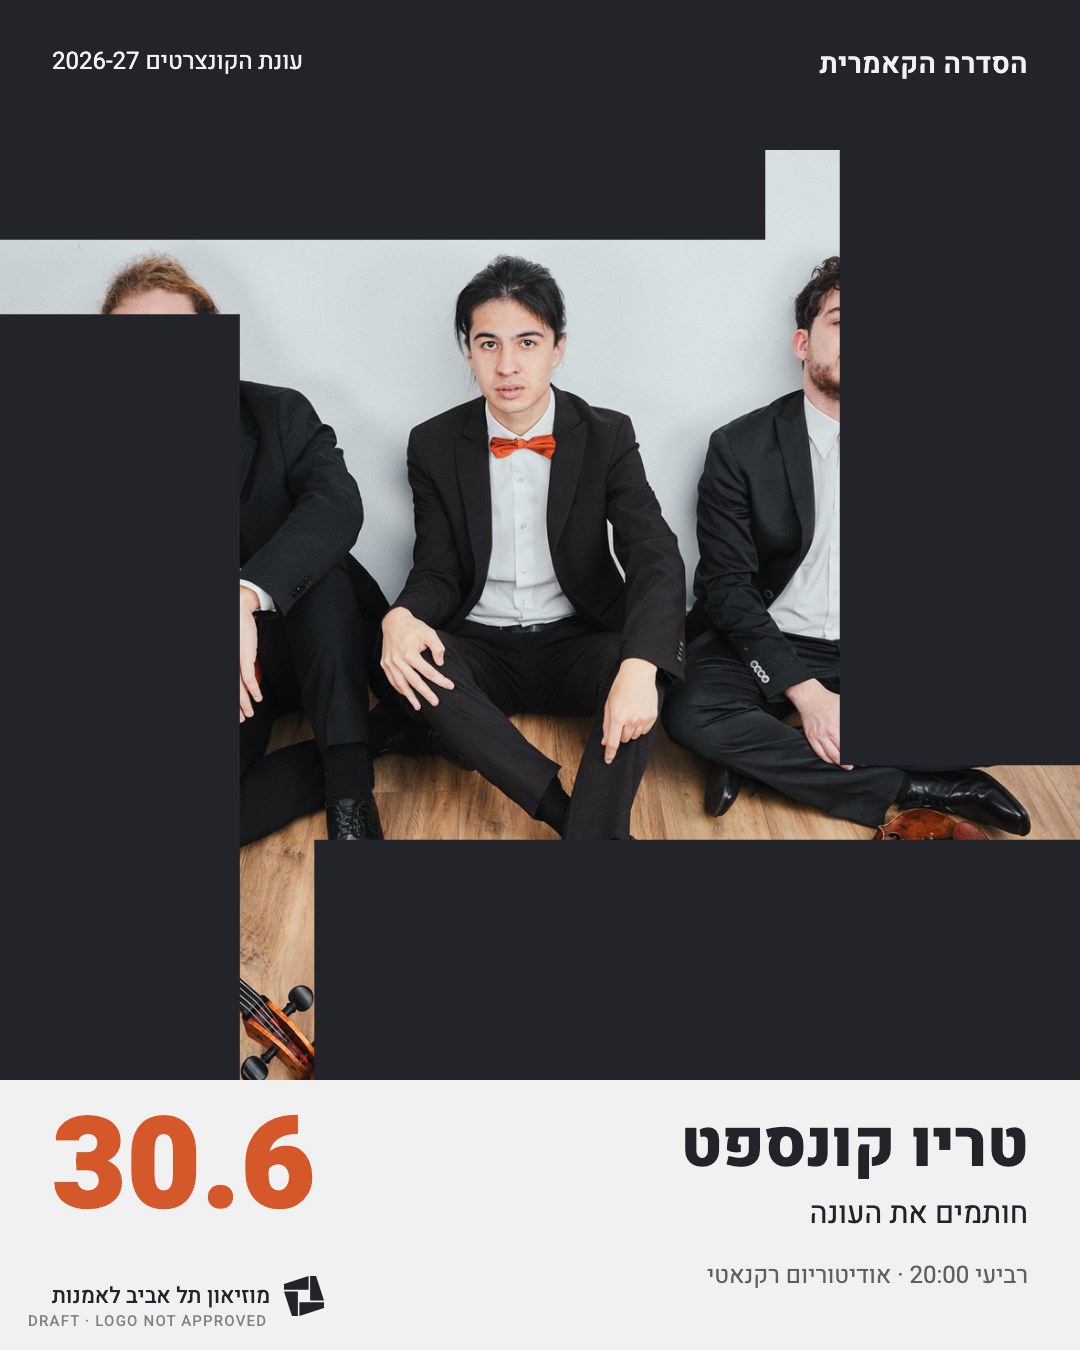
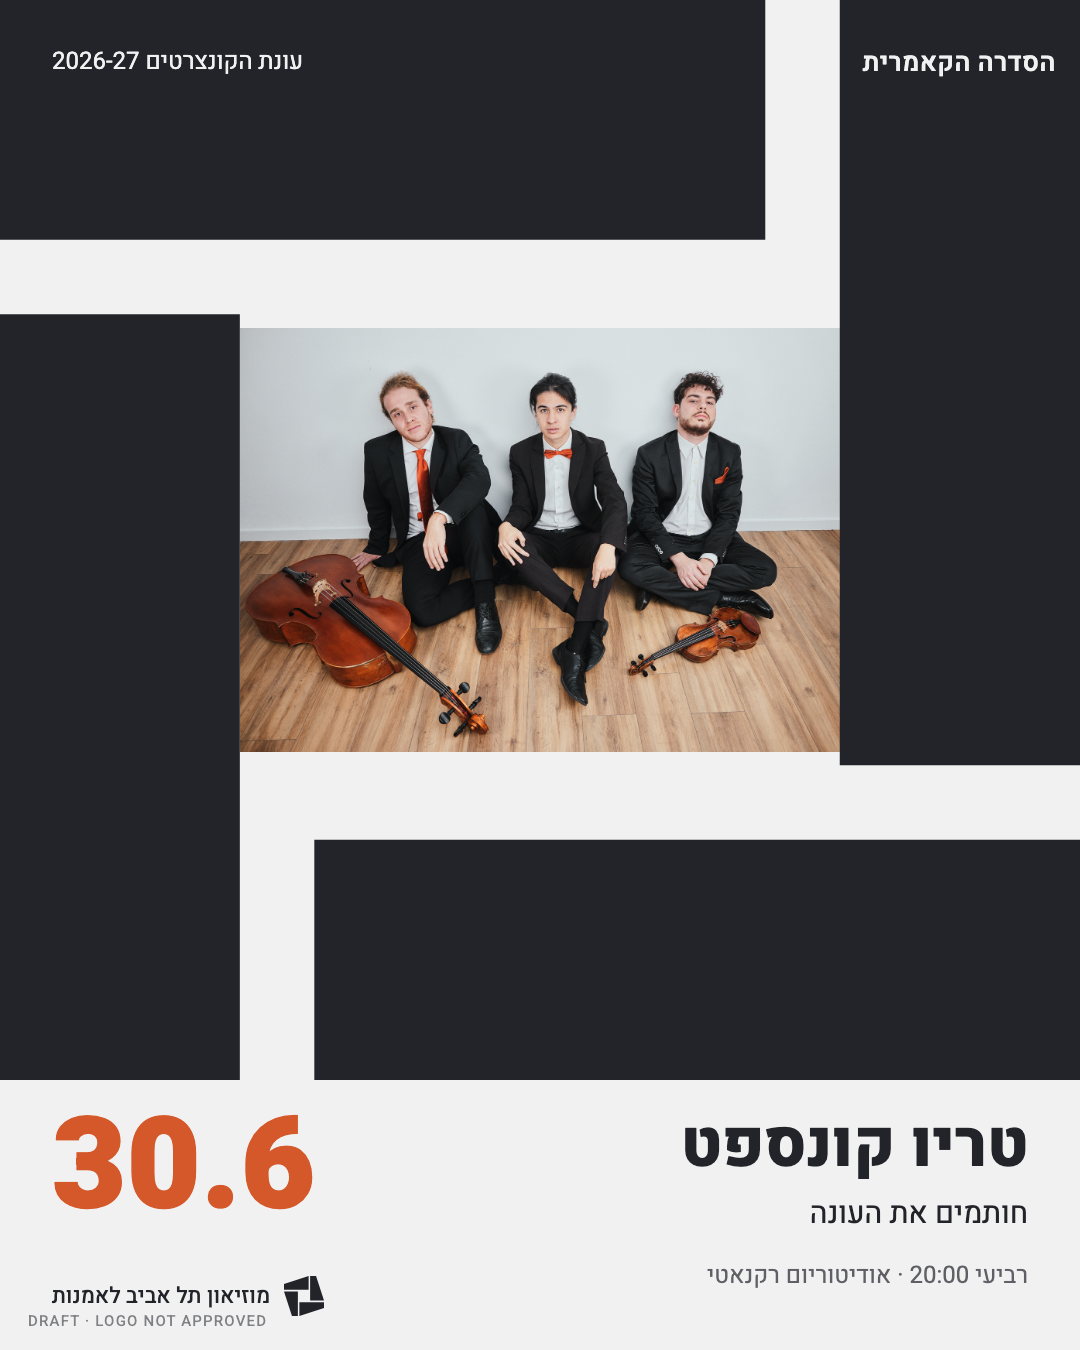
A trio: all three players visible, original photo comparison

Changed region(s): [[0.0, 0.0, 1.0, 0.8089]]

diff --git a/sources.html b/sources.html
@@ -10,7 +10,7 @@ h2{margin:0 0 8px;font-size:20px} img{max-width:100%;display:block;border-radius
 .sw{display:flex;gap:10px;flex-wrap:wrap} .sw div{width:120px;font-size:13px} .sw span{display:block;height:56px;border-radius:6px;border:1px solid #ccc}
 table{width:100%;border-collapse:collapse;font-size:14px;margin-top:10px} td,th{text-align:left;padding:6px;border-bottom:1px solid #ddd;vertical-align:top}
 tr.taken td:last-child{color:#1b7a3d;font-weight:600} tr.invented td:last-child{color:#a33;font-weight:600}
-.post{max-width:320px} .warn{background:#fff4e5;border-left:4px solid #d5582a;padding:10px 12px;border-radius:6px}
+.post{max-width:320px} .pair{display:flex;gap:12px;flex-wrap:wrap;align-items:flex-start} .orig{max-width:420px;flex:1 1 260px} .warn{background:#fff4e5;border-left:4px solid #d5582a;padding:10px 12px;border-radius:6px}
 </style></head><body>
 <header><h1>Where everything came from</h1><p>What was on the museum site on 1.10.2026, and for each post what was taken from it and what I made up. <a style="color:#fff" href="index.html">Back to the review page</a></p></header>
 <main>
@@ -31,5 +31,5 @@ tr.taken td:last-child{color:#1b7a3d;font-weight:600} tr.invented td:last-child{
 <p>Font: <b>Greta</b> (Typotheque, paid). I used free Heebo and Frank Ruhl Libre instead.</p></section>
 
 <section><h2>4. Each post: from the site, or mine</h2><p>Green = from the site. Red = my decision or my draft copy.</p></section>
-<section><img src="media/A-window-3006-trio-concept.png" class="post"><table><tr><th>Element</th><th>Source</th><th></th></tr><tr class="taken"><td>Photo</td><td>Season page hero image (Trio Concept)</td><td>from the site</td></tr><tr class="taken"><td>Four blades and the empty square</td><td>Museum mark SVG from the site CSS, scaled up</td><td>from the site</td></tr><tr class="taken"><td>Names, date, weekday, time, hall</td><td>Season page text</td><td>from the site</td></tr><tr class="invented"><td>Line "חותמים את העונה"</td><td>Mine: 30.6 is the last concert of the season</td><td>mine</td></tr><tr class="invented"><td>Orange date colour</td><td>Mine, sampled by eye from the bow ties</td><td>mine</td></tr><tr class="invented"><td>Fonts Heebo and Frank Ruhl Libre</td><td>Mine, free fonts; the museum uses Greta</td><td>mine</td></tr></table></section><section><img src="media/A-window-2502-puccini-vs-caspi.png" class="post"><table><tr><th>Element</th><th>Source</th><th></th></tr><tr class="taken"><td>Names and the word "מול"</td><td>Season page title "פוצ'יני מול מתי כספי"</td><td>from the site</td></tr><tr class="invented"><td>Blades turned 45 degrees</td><td>Mine: a rule for the Head to Head strand</td><td>mine</td></tr><tr class="invented"><td>Blue field</td><td>Mine</td><td>mine</td></tr><tr class="invented"><td>Line "אופרה איטלקית פוגשת את השיר הישראלי"</td><td>Mine, draft copy</td><td>mine</td></tr></table></section><section><img src="media/B-programme-2110-ben-haim-trio.png" class="post"><table><tr><th>Element</th><th>Source</th><th></th></tr><tr class="taken"><td>Six stripes</td><td>Six players listed on the season page</td><td>from the site</td></tr><tr class="taken"><td>Composers: Prokofiev, Khachaturian, Arensky, Bardanashvili</td><td>Season page programme</td><td>from the site</td></tr><tr class="invented"><td>Keys of the works (C minor, G minor, D minor)</td><td>Arensky D minor is on the page; Prokofiev and Khachaturian keys are from my general knowledge, not the page</td><td>mine</td></tr><tr class="invented"><td>Colour per key, width per birth year</td><td>Mine, the rule of direction B</td><td>mine</td></tr></table></section><section><img src="media/B-programme-2502-puccini-vs-caspi.png" class="post"><table><tr><th>Element</th><th>Source</th><th></th></tr><tr class="invented"><td>Every stripe</td><td>Illustrative only: the programme for 25.2 is not published, so the keys and player count are made up</td><td>mine</td></tr><tr class="taken"><td>Title, date, hall</td><td>Season page</td><td>from the site</td></tr></table></section><section><img src="media/C-seam-2110-ben-haim-trio.png" class="post"><table><tr><th>Element</th><th>Source</th><th></th></tr><tr class="taken"><td>"שלישיית בן-חיים" vs "שירלי בריל"</td><td>Season page title</td><td>from the site</td></tr><tr class="taken"><td>"פסנתר, כינור, צ'לו" and "קלרנית"</td><td>Season page player list</td><td>from the site</td></tr><tr class="invented"><td>Line "שלישייה אחת. קלרנית אחת. חצי הכוס המלאה."</td><td>Mine; "חצי הכוס המלאה" is the Bardanashvili work on the programme</td><td>mine</td></tr><tr class="invented"><td>Orange and ink halves</td><td>Mine</td><td>mine</td></tr></table></section><section><img src="media/C-seam-2502-puccini-vs-caspi.png" class="post"><table><tr><th>Element</th><th>Source</th><th></th></tr><tr class="taken"><td>Puccini vs Matti Caspi</td><td>Season page title</td><td>from the site</td></tr><tr class="invented"><td>"1858, לוקה" and "1949, ירושלים"</td><td>Mine, from general knowledge; not on the museum page. Caspi's birthplace should be checked</td><td>mine</td></tr><tr class="invented"><td>Blue and ink halves</td><td>Mine</td><td>mine</td></tr></table></section>
+<section><div class="pair"><img src="media/A-window-3006-trio-concept.png" class="post"><figure class="orig"><img src="sources/trio-concept-press-photo.png"><figcaption>The original on the museum site</figcaption></figure></div><table><tr><th>Element</th><th>Source</th><th></th></tr><tr class="taken"><td>Photo</td><td>Season page hero image (Trio Concept), whole and unaltered. v1 hid one of the three players behind a blade; fixed after Joseph caught it</td><td>from the site</td></tr><tr class="taken"><td>Four blades and the empty square</td><td>Museum mark SVG from the site CSS, scaled up</td><td>from the site</td></tr><tr class="taken"><td>Names, date, weekday, time, hall</td><td>Season page text</td><td>from the site</td></tr><tr class="invented"><td>Line "חותמים את העונה"</td><td>Mine: 30.6 is the last concert of the season</td><td>mine</td></tr><tr class="invented"><td>Orange date colour</td><td>Mine, sampled by eye from the bow ties</td><td>mine</td></tr><tr class="invented"><td>Fonts Heebo and Frank Ruhl Libre</td><td>Mine, free fonts; the museum uses Greta</td><td>mine</td></tr></table></section><section><div class="pair"><img src="media/A-window-2502-puccini-vs-caspi.png" class="post"></div><table><tr><th>Element</th><th>Source</th><th></th></tr><tr class="taken"><td>Names and the word "מול"</td><td>Season page title "פוצ'יני מול מתי כספי"</td><td>from the site</td></tr><tr class="invented"><td>Blades turned 45 degrees</td><td>Mine: a rule for the Head to Head strand</td><td>mine</td></tr><tr class="invented"><td>Blue field</td><td>Mine</td><td>mine</td></tr><tr class="invented"><td>Line "אופרה איטלקית פוגשת את השיר הישראלי"</td><td>Mine, draft copy</td><td>mine</td></tr></table></section><section><div class="pair"><img src="media/B-programme-2110-ben-haim-trio.png" class="post"></div><table><tr><th>Element</th><th>Source</th><th></th></tr><tr class="taken"><td>Six stripes</td><td>Six players listed on the season page</td><td>from the site</td></tr><tr class="taken"><td>Composers: Prokofiev, Khachaturian, Arensky, Bardanashvili</td><td>Season page programme</td><td>from the site</td></tr><tr class="invented"><td>Keys of the works (C minor, G minor, D minor)</td><td>Arensky D minor is on the page; Prokofiev and Khachaturian keys are from my general knowledge, not the page</td><td>mine</td></tr><tr class="invented"><td>Colour per key, width per birth year</td><td>Mine, the rule of direction B</td><td>mine</td></tr></table></section><section><div class="pair"><img src="media/B-programme-2502-puccini-vs-caspi.png" class="post"></div><table><tr><th>Element</th><th>Source</th><th></th></tr><tr class="invented"><td>Every stripe</td><td>Illustrative only: the programme for 25.2 is not published, so the keys and player count are made up</td><td>mine</td></tr><tr class="taken"><td>Title, date, hall</td><td>Season page</td><td>from the site</td></tr></table></section><section><div class="pair"><img src="media/C-seam-2110-ben-haim-trio.png" class="post"></div><table><tr><th>Element</th><th>Source</th><th></th></tr><tr class="taken"><td>"שלישיית בן-חיים" vs "שירלי בריל"</td><td>Season page title</td><td>from the site</td></tr><tr class="taken"><td>"פסנתר, כינור, צ'לו" and "קלרנית"</td><td>Season page player list</td><td>from the site</td></tr><tr class="invented"><td>Line "שלישייה אחת. קלרנית אחת. חצי הכוס המלאה."</td><td>Mine; "חצי הכוס המלאה" is the Bardanashvili work on the programme</td><td>mine</td></tr><tr class="invented"><td>Orange and ink halves</td><td>Mine</td><td>mine</td></tr></table></section><section><div class="pair"><img src="media/C-seam-2502-puccini-vs-caspi.png" class="post"></div><table><tr><th>Element</th><th>Source</th><th></th></tr><tr class="taken"><td>Puccini vs Matti Caspi</td><td>Season page title</td><td>from the site</td></tr><tr class="invented"><td>"1858, לוקה" and "1949, ירושלים"</td><td>Mine, from general knowledge; not on the museum page. Caspi's birthplace should be checked</td><td>mine</td></tr><tr class="invented"><td>Blue and ink halves</td><td>Mine</td><td>mine</td></tr></table></section>
 </main></body></html>
